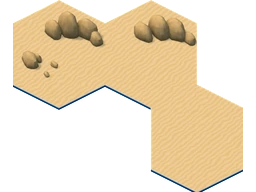
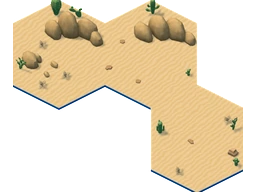
art(cage): CM20 desert gets CC0 cacti, dry shrubs and stones
Owner 2026-11-27: upgrade the basic cage props with free same-style assets,
desert first. 18 props (Quaternius Ultimate Nature cacti and rock, Kenney
Nature Kit cacti, shrubs and flat stones, all CC0 1.0) recoloured to the
desert's own ds-* palette, placed off walkable tiles with a depth rule so
residents never stand behind a tall prop.

The props are one Draco mesh (6 materials, 6,020 triangles) appended to the
published GLB; the floor primitive, texture and BIN bytes are kept verbatim,
so the sand-fall edges stand and only their key moves to the new sha256.
The shop/editor picture and the 2D fallback frame were re-rendered for CM20
only through the production renderer; other cages are untouched.

Rules, sources and the pins to restate: docs/art/production/ART_PRODUCTION_CAGE_CC0_PROPS_ZH_TW.md

diff --git a/src/championship/presentation/ranchWaterfalls.js b/src/championship/presentation/ranchWaterfalls.js
@@ -28,7 +28,9 @@ export const RANCH_CAGE_FALLS = Object.freeze({
[1 lines of base64/hex data omitted]
     [14.113, 5.628, 13.338, 9.095], [13.338, 9.095, 9.871, 9.871], [9.871, 9.871, 8.532, 8.532],
     [17.017, .047, 18.356, 1.385], [18.356, 1.385, 17.581, 4.853], [17.581, 4.853, 14.113, 5.628]]) }),
[1 lines of base64/hex data omitted]
+  // 2026-11-27 CC0 desert props were appended as a separate mesh; the floor primitive, its
+  // texture and buffer bytes are identical to the measured 42075662… GLB, so the edges stand.
[1 lines of base64/hex data omitted]
     [1.346, 1.346, 2.121, -2.121], [2.121, -2.121, 5.589, -2.897], [9.178, .693, 8.403, 4.16], [8.403, 4.16, 4.935, 4.935],
     [4.935, 4.935, 1.346, 1.346], [5.589, -2.897, 6.364, -6.364], [6.364, -6.364, 9.831, -7.139], [9.831, -7.139, 10.8, -6.171],
     [11.056, -5.914, 13.421, -3.55], [12.645, -.083, 9.178, .693], [13.421, -3.55, 16.888, -4.325], [16.888, -4.325, 20.477, -.736],

diff --git a/docs/art/production/ART_PRODUCTION_CAGE_CC0_PROPS_ZH_TW.md b/docs/art/production/ART_PRODUCTION_CAGE_CC0_PROPS_ZH_TW.md
@@ -1,0 +1,44 @@
+# 籠舍 CC0 物件升級
+
+## 規則
+
+- **素材來源**：只用官方頁面標示為 CC0 1.0 的套件，例如 Quaternius、Kenney、KayKit 免費版。不用 ROM 或研究素材。
+- **配色**：物件改用該籠舍母檔自己的色票材質（例如沙漠的 `ds-*`）。
+- **程序紋理材質**：遇到程序紋理材質（例如 `ds-rock*` 的 noise ramp），匯出時要換成同色的純色材質。glTF 帶不出程序紋理，不換的話遊戲裡會變成白色。
+- **擺放（依可走資料 `raising-ground.r1.json`，不依畫面）**：
+  - **高物件**：距可走格中心至少 0.5。
+  - **深度規則**：高物件畫面上方（遠離鏡頭方向）的 1.3 倍高度內不能有可走格，因為角色永遠畫在物件上層。
+  - **灌木**：距可走格中心至少 0.3。
+  - **可走區**：只放高度 ≤ 0.12 的貼地小物。
+  - **其他**：不與原有地形物件重疊，底部貼地。
+- **GLB 處理方式**：物件依材質合併成一個網格，用 Draco 壓縮後附加到籠舍 GLB。原本的地板 primitive、貼圖和 BIN 位元組逐位保留，所以支撐面、可走面和地面圖都不受影響。
+- **換 GLB 後要更新的指紋**：
+  - `three-20261021/manifest.json`
+  - `ranchWaterfalls.js` 的 `RANCH_CAGE_FALLS`：地板沒變時只換指紋，邊界值保留。
+  - 商店與編輯器圖片：用 `cage-ui-render.html` 只重渲該籠舍，再打包、更新 `cage-ui-three.v1.json` 那一行。
+  - `cage-ui.map.v1.json`、`ui-three-20261102/manifest.json`、`PUBLIC_MAP_RENDER_SOURCES`
+  - 兩份發布合約
+
+## CM20 沙漠（2026-11-27）
+
+- **GLB**：`assets/production/cage/three-20261021/field_cm20_01.glb`
[1 lines of base64/hex data omitted]
+  - 舊：`42075662…`，453,544 bytes。舊檔的 BIN 原封保留在新檔開頭。
+- **新增物件**：節點 `field_cm20_01-cc0-props`，6 個材質 primitive，共 6,020 三角面、4,615 頂點，Draco 壓縮後約 56 KB。
+- **物件與來源**（皆為 CC0 1.0）：
+
+| 物件 | 套件／模型 | 來源 |
+|---|---|---|
+| 仙人掌 ×5 | Quaternius Ultimate Nature Pack：`Cactus_1`、`Cactus_2`、`Cactus_5`、`CactusFlowers_4` ×2 | https://quaternius.com/packs/ultimatenature.html |
+| 沙岩 ×1 | Quaternius Ultimate Nature Pack：`Rock_3` | 同上 |
+| 小仙人掌 ×3 | Kenney Nature Kit 2.1：`cactus_tall`、`cactus_short` ×2 | https://kenney.nl/assets/nature-kit |
+| 乾灌木 ×5 | Kenney Nature Kit 2.1：`plant_bushDetailed` | 同上 |
+| 貼地扁石 ×4 | Kenney Nature Kit 2.1：`rock_smallFlatA/B/C`、`stone_smallFlatA` | 同上 |
+
+- **編輯母檔**（未進 git）：`R:\Projects\Championship2026\cm20-desert-upgrade-20261127\out\CM20_master_r5_cc0_v5.blend`
+  - 來源母檔：`cage-art-refinement-20261024\CM20\r5\CM20_master_r5.blend`，未改。
+  - 擺放與匯出腳本在同資料夾的 `scripts\`。授權檔與 SHA256 在 `sources\`。
+- **10-24 精修的取捨**：當時曾因原作參考圖沒有仙人掌，把早期手刻的仙人掌、頭骨、灌木設為不渲染。2026-11-27 Owner 要求用免費素材升級籠舍物件，所以加回仙人掌類物件。
+- **已知取捨**：
+  - 最高的仙人掌在 52° 商店圖框裡頂端略微超出。
+  - 右下六角幾乎全是可走格，只放得下外緣小物。

diff --git a/.claude/skills/hd2d-cage-world/SKILL.md b/.claude/skills/hd2d-cage-world/SKILL.md
@@ -30,6 +30,7 @@ logo, main menu and opening stay exactly as live main shipped them.
 | Shop cage cards | `src/championship/app/vs4Screens.js` (`decorateShopCageCard`, `cageSeriesLabel`), `ui/screenLayout.css` |
 | Shop, editor and location pictures (renders of the 3D cages) | `assets/production/public-runtime/cage-ui-three.v1.json` → `src/championship/presentation/cageUiArt.js` |
 | Gachapon royal maps (Owner 2026-11-03): 全自動皇家牧場 (36), 全自動星際動物園 (37) | `scripts/build-royal-cage-maps.py` and its siblings; definitions in `src/championship/cage/productCageCatalog.js`; rules in `docs/art/production/ART_PRODUCTION_ROYAL_CAGE_MAPS_ZH_TW.md` |
+| CC0 prop upgrades (Owner 2026-11-27; CM20 desert first): free same-style props appended as one Draco mesh, base GLB bytes kept | `docs/art/production/ART_PRODUCTION_CAGE_CC0_PROPS_ZH_TW.md` (placement rules, sources, which pins to restate) |
 
 ## Enhancer rules
 
